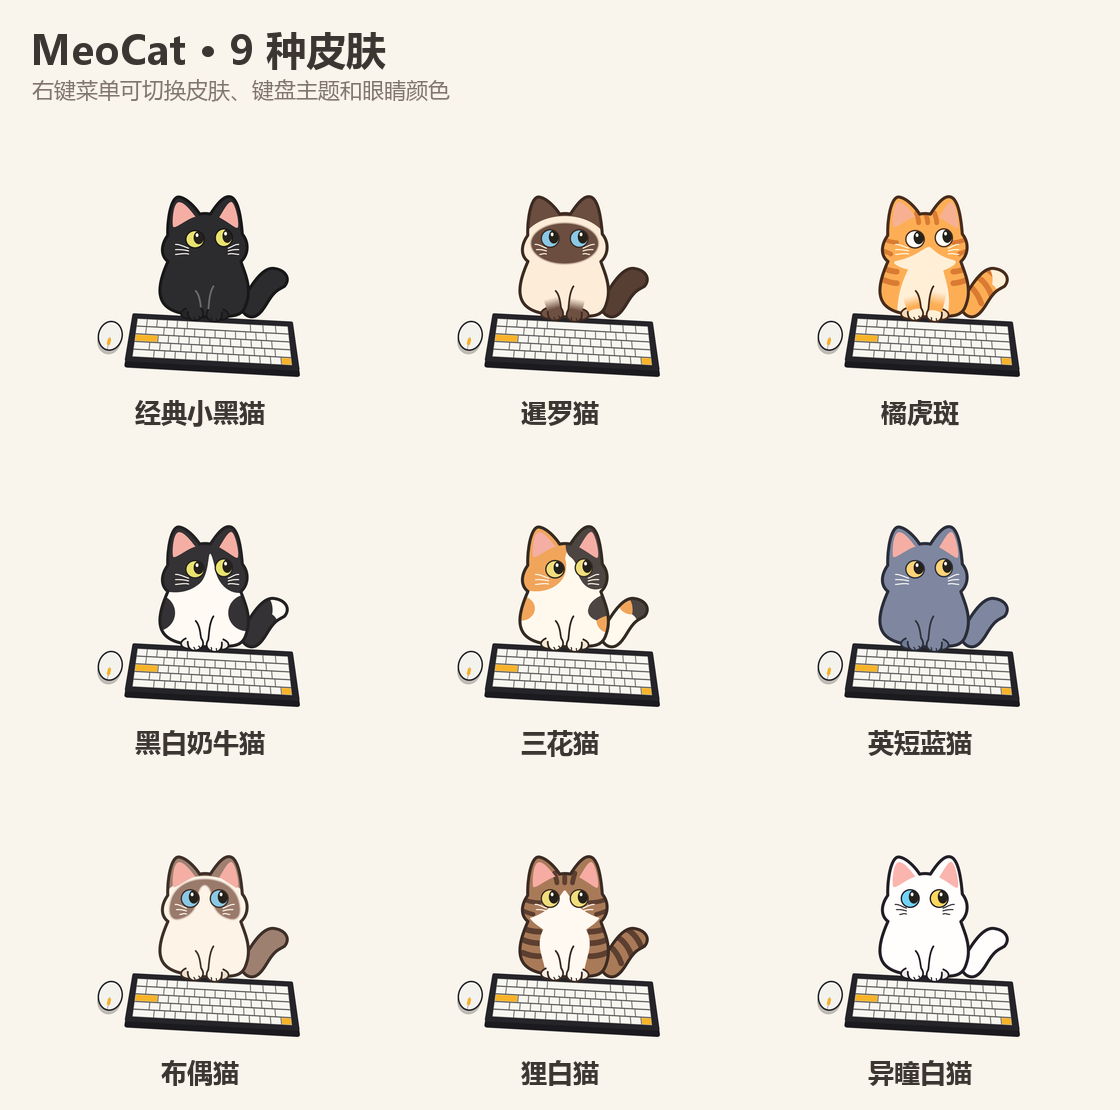
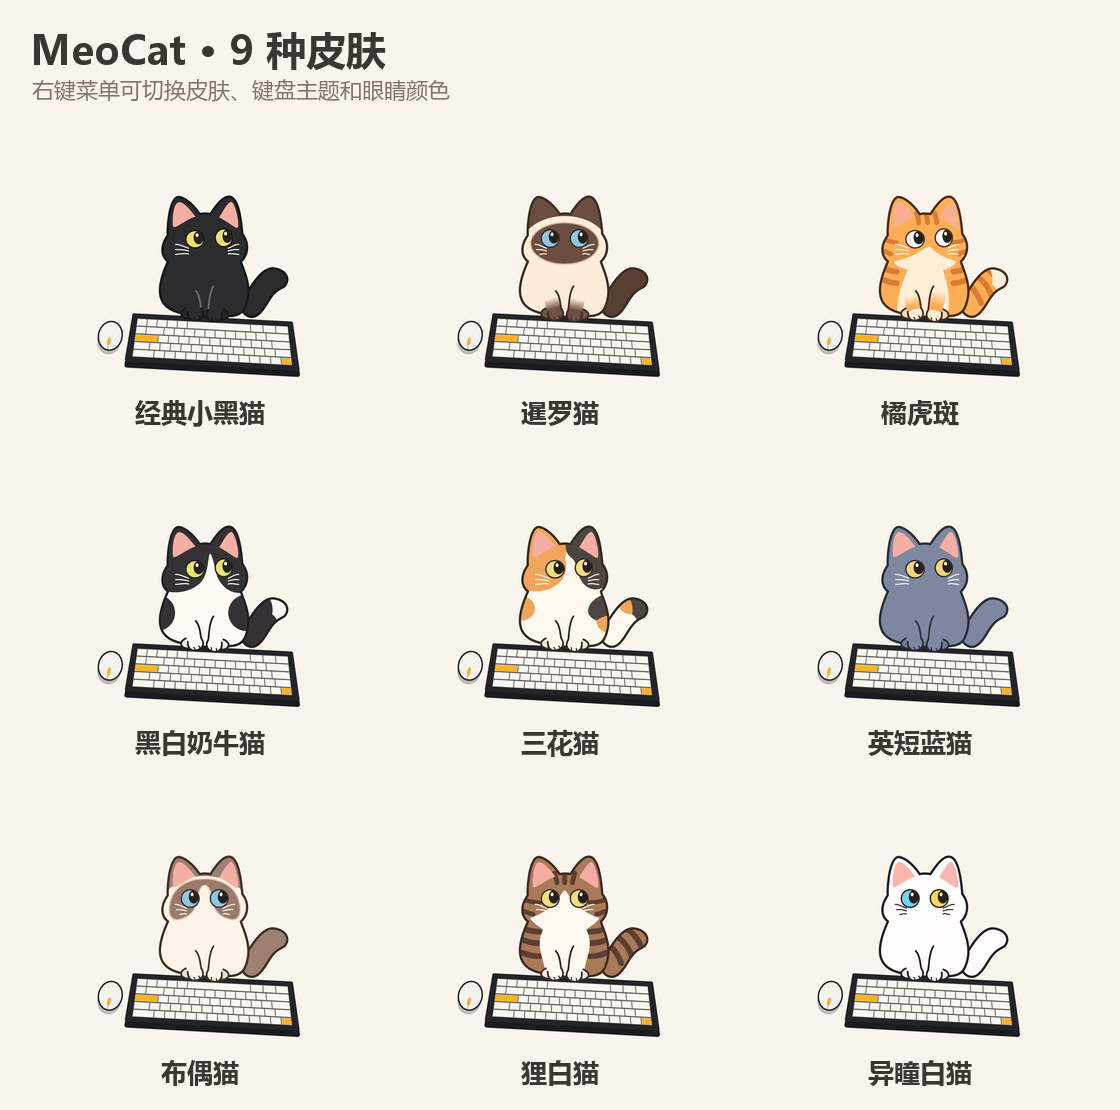
Refine cat outlines for v1.1.2

diff --git a/windows/src/FlatCatRenderer.hpp b/windows/src/FlatCatRenderer.hpp
@@ -17,6 +17,8 @@ inline constexpr float OriginY = 852.0f;
 inline constexpr float MotionAmount = CatPhysics::BodyMotionAmount;
 inline constexpr float BodyDrop = 6.5f;
 inline constexpr float PointFaceCenter = 673.0f;
+inline constexpr float SilhouetteStroke = 11.0f;
+inline constexpr float PawStroke = 8.5f;
 
 inline float seatX(const CatPhysics& cat) {
     return CatPhysics::SeatAnchor.x + cat.bodyShiftX.value * MotionAmount;
@@ -136,7 +138,7 @@ inline void tail(Graphics& g, CatCoatTheme coat, const Palette& fur) {
     brushPath(g, shape, fur.tail);
     if (coat != CatCoatTheme::Calico && coat != CatCoatTheme::Tuxedo &&
         coat != CatCoatTheme::GingerTabby && coat != CatCoatTheme::WhiteTabby) {
-        strokePath(g, shape, fur.outline, 14.5f);
+        strokePath(g, shape, fur.outline, SilhouetteStroke);
         return;
     }
     const auto state = g.Save();
@@ -153,7 +155,7 @@ inline void tail(Graphics& g, CatCoatTheme coat, const Palette& fur) {
     }
     if (coat == CatCoatTheme::WhiteTabby) {
         g.Restore(state);
-        strokePath(g, shape, fur.outline, 14.5f);
+        strokePath(g, shape, fur.outline, SilhouetteStroke);
         return;
     }
     if (coat == CatCoatTheme::Calico) {
@@ -171,7 +173,7 @@ inline void tail(Graphics& g, CatCoatTheme coat, const Palette& fur) {
     tip.CloseFigure();
     brushPath(g, tip, coat == CatCoatTheme::Calico ? fur.marking : fur.sock);
     g.Restore(state);
-    strokePath(g, shape, fur.outline, 14.5f);
+    strokePath(g, shape, fur.outline, SilhouetteStroke);
 }
 
 inline void drawCalicoFace(Graphics& g) {
@@ -411,7 +413,7 @@ inline void catBody(Graphics& g, const HeadPose& pose, GraphicsPath& outline, Ca
     if (coat != CatCoatTheme::Siamese) drawEars(g, fur.ear);
     g.Restore(face);
     g.Restore(clipped);
-    strokePath(g, outline, fur.outline, 14.5f);
+    strokePath(g, outline, fur.outline, SilhouetteStroke);
 }
 
 inline Color eyeColor(EyeColorTheme theme, CatCoatTheme coat, bool left = false) {
@@ -524,7 +526,7 @@ inline void hindPaw(Graphics& g, float x, float y, float angle, const Palette& f
     GraphicsPath foot;
     foot.AddEllipse(-46.0f, -27.0f, 92.0f, 54.0f);
     brushPath(g, foot, fur.hindPaw);
-    strokePath(g, foot, fur.outline, 8.5f);
+    strokePath(g, foot, fur.outline, PawStroke);
     g.Restore(state);
     toeLines(g, pose, 13.0f, 24.0f, fur.outline);
 }
@@ -551,17 +553,20 @@ inline void foreleg(Graphics& g, PointF paw, bool left, GraphicsPath& body, CatC
     const float start = -distance;
     const float elbow = start * 0.72f;
     const float wrist = start * 0.29f;
+    // Bow both sides outward together, leaving the shoulder and paw pad in place.
+    const float elbowBend = std::clamp((distance - 132.0f) * 0.31f, 0.0f, 68.0f);
+    const float wristBend = elbowBend * 0.28f;
     GraphicsPath inner;
-    inner.AddBezier(point(shoulderWidth, start), point(elbowWidth, elbow),
-                    point(wristWidth, wrist), point(wristWidth, -11.0f));
+    inner.AddBezier(point(shoulderWidth, start), point(elbowWidth - elbowBend, elbow),
+                    point(wristWidth - wristBend, wrist), point(wristWidth, -11.0f));
     GraphicsPath cap;
     cap.AddBezier(point(wristWidth, -11.0f), point(44.0f, 18.0f),
                   point(29.0f, 38.0f), point(0.0f, 39.0f));
     cap.AddBezier(point(0.0f, 39.0f), point(-29.0f, 40.0f),
                   point(-42.0f, 17.0f), point(-wristWidth, -11.0f));
     GraphicsPath outer;
-    outer.AddBezier(point(-wristWidth, -11.0f), point(-wristWidth, wrist),
-                    point(-elbowWidth, elbow), point(-shoulderWidth, start));
+    outer.AddBezier(point(-wristWidth, -11.0f), point(-wristWidth - wristBend, wrist),
+                    point(-elbowWidth - elbowBend, elbow), point(-shoulderWidth, start));
     GraphicsPath fill;
     fill.AddPath(&inner, FALSE);
     fill.AddPath(&cap, TRUE);
@@ -596,11 +601,11 @@ inline void foreleg(Graphics& g, PointF paw, bool left, GraphicsPath& body, CatC
     } else {
         brushPath(g, fill, coat == CatCoatTheme::WhiteTabby ? fur.sock : fur.body);
     }
-    strokePath(g, inner, fur.limbLine, 8.5f);
-    strokePath(g, cap, fur.outline, 8.5f);
+    strokePath(g, inner, fur.limbLine, PawStroke);
+    strokePath(g, cap, fur.outline, PawStroke);
     const auto state = g.Save();
     g.SetClip(&body, CombineModeExclude);
-    strokePath(g, outer, fur.outline, 8.5f);
+    strokePath(g, outer, fur.outline, PawStroke);
     g.Restore(state);
 
     const Matrix pose(uy, -ux, ux, uy, paw.X, paw.Y);

diff --git a/README.md b/README.md
@@ -1,6 +1,6 @@
 # 🐱 MeoCat — Windows 键盘桌宠
 
-## MeoCat v1.1.0
+## MeoCat v1.1.2
 
 一只坐在机械键盘上的猫咪桌宠。你在别的窗口打字、点鼠标，它会跟着动；右键猫咪或托盘图标可以换皮肤、换键盘配色、调尺寸。
 
